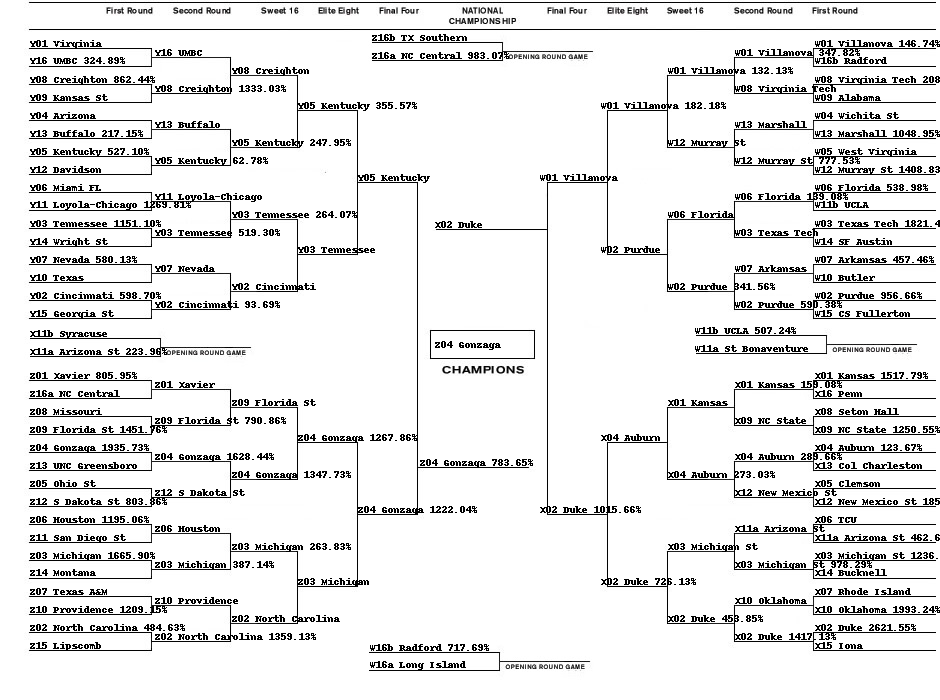
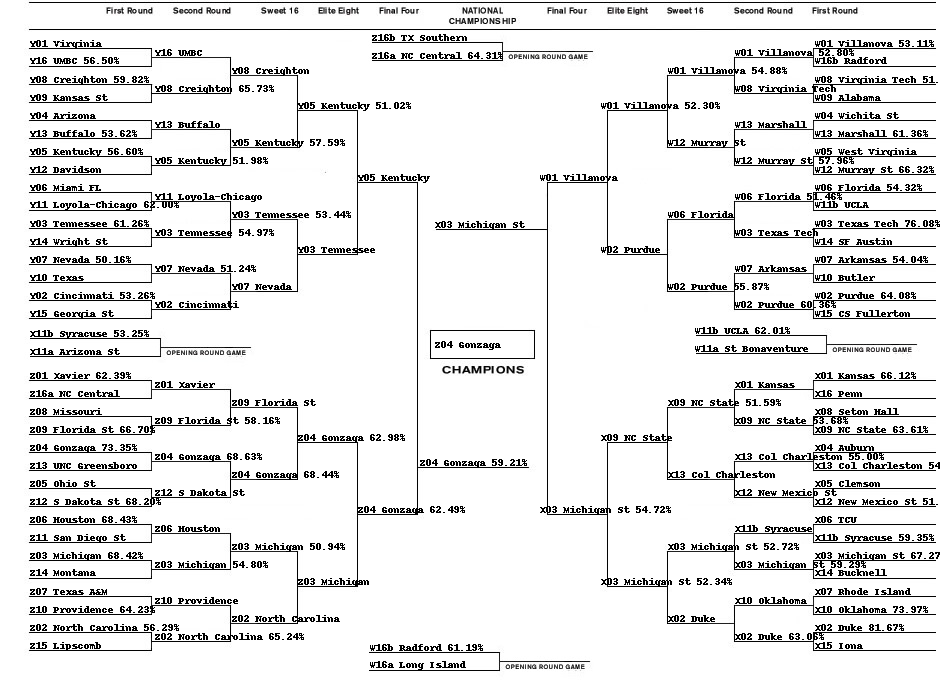
Updating to fix test workflow and put png generation into percentages

diff --git a/src/main.py b/src/main.py
@@ -33,7 +33,7 @@ def full_workflow(historical=True):
         (train_dataset, train_labels), (test_dataset, test_labels) = split_dataset.split_training_data_randomly_with_seed(df_normalized)
 
         # Train model
-        model = train_model.make()
+        model = train_model.make("dev")
         train_model.persist(model)
 
         # Create predictions
@@ -50,7 +50,7 @@ def full_workflow(historical=True):
         normalized_test_dataset = add_dummies(normalized_test_dataset, train_dataset)
 
         # Train model
-        model = train_model.make(train_dataset, train_labels)
+        model = train_model.make("test", train_dataset, train_labels)
         train_model.persist(model)
 
         # Create predictions                  
@@ -61,5 +61,4 @@ def full_workflow(historical=True):
         build_bracket_output()
 
 if __name__ == '__main__':    
-    # full_workflow(historical=False)
-    full_workflow(True)
+    full_workflow(False)

diff --git a/src/models/train_model.py b/src/models/train_model.py
@@ -68,8 +68,8 @@ def plot_training(hist):
     plt.legend()
     plt.ylim([0,200])
     
-def make(train_dataset=None, train_labels=None):
-    if train_dataset is None:
+def make(mode, train_dataset=None, train_labels=None):
+    if mode is "dev":
         fp = IntermediateFilePersistence('NormalizedFeatureData.csv')
         df = fp.read_from_csv()
         (train_dataset, train_labels), (test_dataset, test_labels) = split_dataset.split_training_data_randomly_with_seed(df)
@@ -77,8 +77,9 @@ def make(train_dataset=None, train_labels=None):
     model = build_model(train_dataset)
     model, hist = train_model(model, train_dataset, train_labels)
 
-    print("\nEvaluating dev set...\n")
-    evaluate_model(model, test_dataset, test_labels)
+    if mode is "dev":
+        print("\nEvaluating dev set...\n")
+        evaluate_model(model, test_dataset, test_labels)
     
     plot_training(hist)
     
